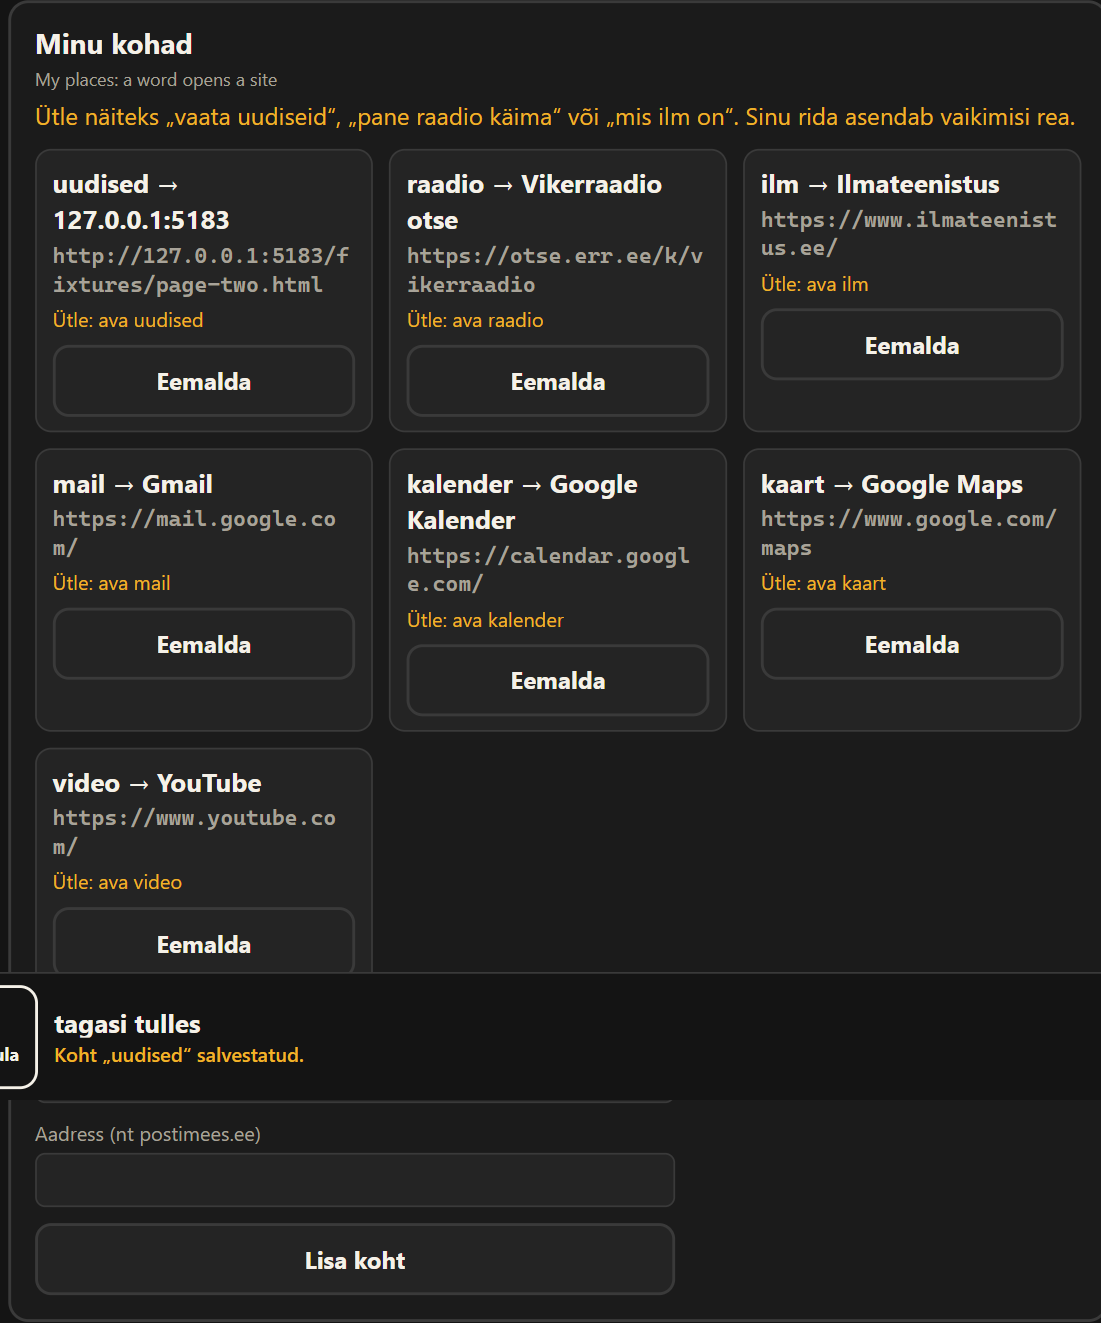
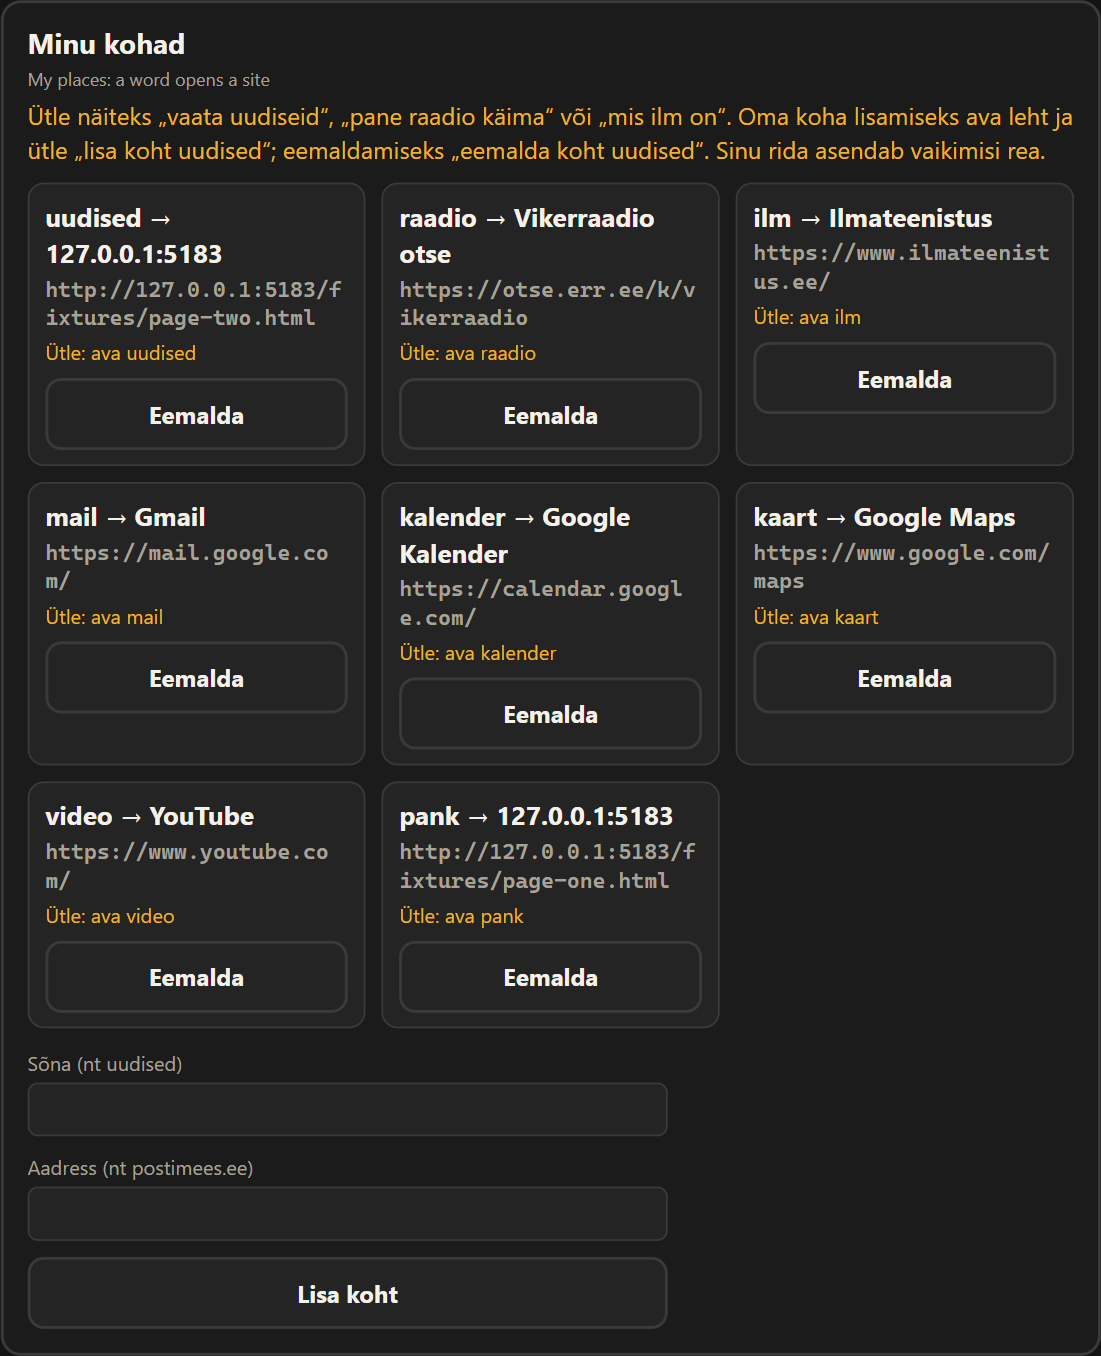
settings page clears the strip at its end; suite: a place saved by voice opens on "vaata uudiseid", the toggle check waits for the new document; screenshots re-shot

diff --git a/extension/test/run.ts b/extension/test/run.ts
@@ -17,7 +17,7 @@ import { buildExtension } from '../../scripts/ext.ts'
 import { ENROL_PHRASES } from '../../src/core/enrolPhrases.ts'
 import { initialInpage, inpageStep } from '../../src/core/inpage.ts'
 // ---------- wake word and places (29.4) ----------
-import { placeCommand, placesFrom } from '../../src/core/places.ts'
+import { placeCommand, placeRowsFrom, placeVoice, placesFrom } from '../../src/core/places.ts'
 // ---------- end of wake word and places ----------
 import { createUtleServer } from '../../server/app.ts'
 
@@ -1021,27 +1021,58 @@ async function main(): Promise<void> {
       line('savedEntry', 'with the options page closed -> not_found', r !== 'timeout' && !r.ok && r.code === 'not_found', describe(r))
     }
 
-    // ---------- wake word and places (29.4): Minu kohad on the settings page, a place opened by its noun, the wake mode's wiring ----------
+    // ---------- wake word and places (29.4): a place saved by voice and opened by its noun, Minu kohad on the settings page, the wake mode's wiring ----------
     {
       const extensionId = new URL(sw.url()).host
+      const storedPlaces = async (): Promise<unknown> => sw.evaluate(async () => (await chrome.storage.local.get('places')).places)
+      // On page two he says "lisa koht uudised": the real rules of places.ts make the command the engine sends.
+      const newsPage = `${T}/page-two.html`
+      await send({ kind: 'goTo', url: newsPage })
+      const voice = placeVoice('lisa koht uudised', false)
+      const saveCommand = voice?.noun ? { kind: 'savePlace', noun: voice.noun } : null
+      r = saveCommand === null ? 'timeout' : await send(saveCommand)
+      const savedRows = placeRowsFrom(await storedPlaces())
+      line('savePlace', '"lisa koht uudised" on page two -> his row', r !== 'timeout' && r.ok && r.tab?.url === newsPage && JSON.stringify(savedRows) === JSON.stringify([{ noun: 'uudised', url: newsPage }]), `${describe(r)} command=${JSON.stringify(saveCommand)} rows=${JSON.stringify(savedRows)}`)
+      // Elsewhere, "vaata uudiseid" opens it.
+      await send({ kind: 'goTo', url: `${T}/page-three.html` })
+      const place = placeCommand('vaata uudiseid', placesFrom(await storedPlaces()))
+      r = place === null ? 'timeout' : await send({ kind: 'goTo', url: place.url })
+      const opened = await activeTab()
+      line('goTo', '"vaata uudiseid" from page three -> page two', r !== 'timeout' && r.ok && opened?.url === newsPage && opened.title === 'Page two', `${describe(r)} place=${JSON.stringify(place)} tab=${JSON.stringify(opened)}`)
+
       const options = await ctx.newPage()
       await options.setViewportSize({ width: 1280, height: 1100 })
       await options.goto(`chrome-extension://${extensionId}/options.html#kohad`)
       await options.waitForSelector('#placeList .place-item', { timeout: 5000 }).catch(() => undefined)
       const listed = await options.evaluate(() => [...document.querySelectorAll<HTMLElement>('#placeList .place-item')].map((e) => e.dataset.noun ?? ''))
-      check('kohad: the settings page lists the seven default places', JSON.stringify(listed) === JSON.stringify(['uudised', 'raadio', 'ilm', 'mail', 'kalender', 'kaart', 'video']), JSON.stringify(listed))
-      // His own news site, by the form: the fixture page stands in for it.
-      const mine = `${T}/page-two.html`
+      const shownVoice = await options.evaluate(() => document.querySelector('#placeList .place-item[data-noun="uudised"] .place-url')?.textContent ?? '')
+      check('kohad: the settings page lists the seven places, uudised as saved by voice', JSON.stringify(listed) === JSON.stringify(['uudised', 'raadio', 'ilm', 'mail', 'kalender', 'kaart', 'video']) && shownVoice === newsPage, `${JSON.stringify(listed)} uudised=${shownVoice}`)
+      // The helper's path: the form adds a place that has no default.
+      const bank = `${T}/page-one.html`
       await options.mouse.move(0, 0)
-      await options.fill('#placeNoun', 'uudised')
-      await options.fill('#placeUrl', mine)
+      await options.fill('#placeNoun', 'pank')
+      await options.fill('#placeUrl', bank)
       await options.click('#placeAdd')
-      const storedRows = await waitUntil(async () => (await sw.evaluate(async () => ((await chrome.storage.local.get('places')).places as unknown[] | undefined)?.length ?? 0)) === 1, 3000)
-      const shownUrl = await options.evaluate(() => document.querySelector('#placeList .place-item[data-noun="uudised"] .place-url')?.textContent ?? '')
-      check('kohad: the form adds his row, which replaces the default', storedRows && shownUrl === mine, `stored=${storedRows} shown=${shownUrl}`)
+      const twoRows = await waitUntil(async () => placeRowsFrom(await storedPlaces()).length === 2, 3000)
+      const shownBank = await options.evaluate(() => document.querySelector('#placeList .place-item[data-noun="pank"] .place-url')?.textContent ?? '')
+      check('kohad: the form adds a place of his own (pank)', twoRows && shownBank === bank, `rows=${JSON.stringify(placeRowsFrom(await storedPlaces()))} shown=${shownBank}`)
+      // The page keeps the strip's height free at its end (options.html pads <main>): scrolled to the bottom,
+      // the last of the page ends above the bar, so nothing on it stays hidden under the strip.
+      await options.evaluate(() => window.scrollTo(0, document.documentElement.scrollHeight))
+      await options.waitForTimeout(200)
+      const clear = await options.evaluate(() => {
+        const end = document.querySelector('main')?.lastElementChild?.getBoundingClientRect().bottom ?? -1
+        const pad = Number.parseFloat(getComputedStyle(document.documentElement).paddingBottom) || 0
+        return { pageEnd: Math.round(end), barTop: Math.round(window.innerHeight - pad), pad }
+      })
+      check('kohad: scrolled to the end, the settings page ends above the strip', clear.pad >= 96 && clear.pageEnd > 0 && clear.pageEnd <= clear.barTop, JSON.stringify(clear))
       await mkdir(join(extensionDir, 'test/out'), { recursive: true })
+      // The whole section in one picture: a tall window, so the strip sits below it.
+      await options.setViewportSize({ width: 1280, height: 1900 })
       await options.evaluate(() => document.getElementById('kohad')?.scrollIntoView({ block: 'start' }))
+      await options.waitForTimeout(200)
       await options.locator('#kohad').screenshot({ path: join(extensionDir, 'test/out/places.png') })
+      await options.setViewportSize({ width: 1280, height: 1100 })
 
       // Wake mode: the choice shows the word's field, the word is stored, and the offscreen document is made with it.
       const wakeChoice = options.locator('#listenMode .choice').nth(2)
@@ -1058,19 +1089,20 @@ async function main(): Promise<void> {
       const word = await sw.evaluate(async () => (await chrome.storage.local.get('wakeWord')).wakeWord)
       check('wake: the mode shows the word field, stores the word, and the offscreen document gets &wake=', panelShown && word === 'Kuule' && wakeDoc, `panel=${panelShown} word=${JSON.stringify(word)} offscreen=${await offscreenUrl()}`)
       await options.locator('#listenMode').screenshot({ path: join(extensionDir, 'test/out/wake-settings.png') })
-      // Back to the toggle: the document made for wake mode is replaced, so no gate stays behind.
+      // Back to the toggle: the document made for wake mode is replaced by one without the gate.
       await options.mouse.move(0, 0)
       await options.locator('#listenMode .choice').nth(0).click()
-      const gateGone = await waitUntil(async () => !(await offscreenUrl()).includes('&wake='), 5000)
-      check('wake: back to the toggle, the offscreen document has no gate', gateGone, `offscreen=${await offscreenUrl()}`)
+      const replaced = await waitUntil(async () => {
+        const url = await offscreenUrl()
+        return url.includes('/offscreen.html?') && !url.includes('&wake=')
+      }, 5000)
+      check('wake: back to the toggle, a new offscreen document without &wake=', replaced, `offscreen=${await offscreenUrl()}`)
       await options.close()
-      // "vaata uudiseid": the real rules of places.ts over what the settings page stored, as the engine resolves it.
-      const rows = await sw.evaluate(async () => (await chrome.storage.local.get('places')).places)
-      const place = placeCommand('vaata uudiseid', placesFrom(rows))
-      r = place === null ? 'timeout' : await send({ kind: 'goTo', url: place.url })
-      const opened = await activeTab()
-      line('goTo', '"vaata uudiseid" -> his place for uudised (page two)', r !== 'timeout' && r.ok && opened?.url === mine && opened.title === 'Page two', `${describe(r)} place=${JSON.stringify(place)} tab=${JSON.stringify(opened)}`)
 
+      // "eemalda koht uudised": his row hides it, so the default is gone too.
+      r = await send({ kind: 'removePlace', noun: 'uudised' })
+      const afterRemove = placesFrom(await storedPlaces())
+      line('removePlace', '"eemalda koht uudised" -> no uudised place', r !== 'timeout' && r.ok && !afterRemove.some((p) => p.noun === 'uudised') && placeCommand('vaata uudiseid', afterRemove) === null, `${describe(r)} nouns=${afterRemove.map((p) => p.noun).join(',')}`)
       await sw.evaluate(() => chrome.storage.local.remove(['places', 'wakeWord']))
     }
     // ---------- end of wake word and places ----------

diff --git a/extension/options.html b/extension/options.html
@@ -8,7 +8,8 @@
       :root { --bg: #141414; --ink: #f5f1e8; --dim: #a8a399; --edge: #3a3a3a; --panel: #242424; --green: #3ddc84; --amber: #f0b429; }
       html, body { margin: 0; background: var(--bg); color: var(--ink); }
       body { font: 22px/1.4 "Atkinson Hyperlegible Next", "Atkinson Hyperlegible", system-ui, "Segoe UI", sans-serif; }
-      main { max-width: 1100px; margin: 0 auto; padding: 32px 24px 48px; }
+      /* Round 8 (29.4.3): the end of the page clears the strip at its tallest (192 px) plus the usual 48 px. */
+      main { max-width: 1100px; margin: 0 auto; padding: 32px 24px 240px; }
       h1 { font-size: 40px; margin: 0 0 12px; }
       h2 { font-size: 28px; margin: 0 0 4px; }
       .en { color: var(--dim); font-size: 18px; margin: 0; }

diff --git a/extension/README.md b/extension/README.md
@@ -228,9 +228,12 @@ What the listing needs that the repository cannot hold:
   uudised → Postimees, raadio → Vikerraadio's live page (otse.err.ee), ilm → Ilmateenistus, mail →
   Gmail, kalender → Google Kalender, kaart → Google Maps, video → YouTube; no bank. The model is told
   only the words and may answer one of them in other phrasings; it never sees an address. Another
-  station once the radio page is open: `vajuta Raadio 2` or the numbers, as on any page. The settings
-  page's **Minu kohad** section lists them; type a word and an address (`postimees.ee`) and **Lisa
-  koht** to add one or replace a default; **Eemalda** removes one. Stored under `places`.
+  station once the radio page is open: `vajuta Raadio 2` or the numbers, as on any page. To add your
+  own by voice, open the page and say `lisa koht uudised` (or `salvesta see koht uudised`, `see on mu
+  uudised`, `save this place as news`): the address of the tab in front is saved under that word and
+  the strip says so. `lisa koht` alone asks for the word; say it next. `eemalda koht uudised` removes
+  one. The settings page's **Minu kohad** section lists them; a helper can also type a word and an
+  address (`postimees.ee`) and press **Lisa koht**; **Eemalda** removes one. Stored under `places`.
 - When the speech server falls behind by more than one second, a thin dim line under the amber
   one says "Kõne jääb maha N s" until it has caught up. While a chain of goals runs (below) a
   line in the same place says where it is: "2/4 · ava Karini viimane sõnum".
